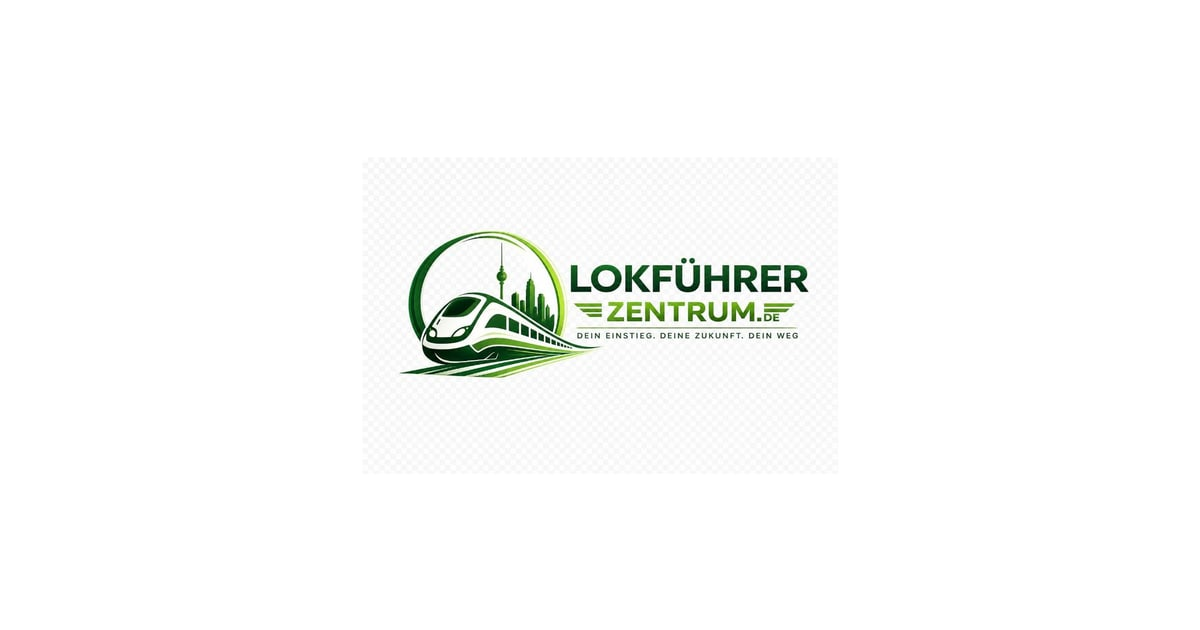
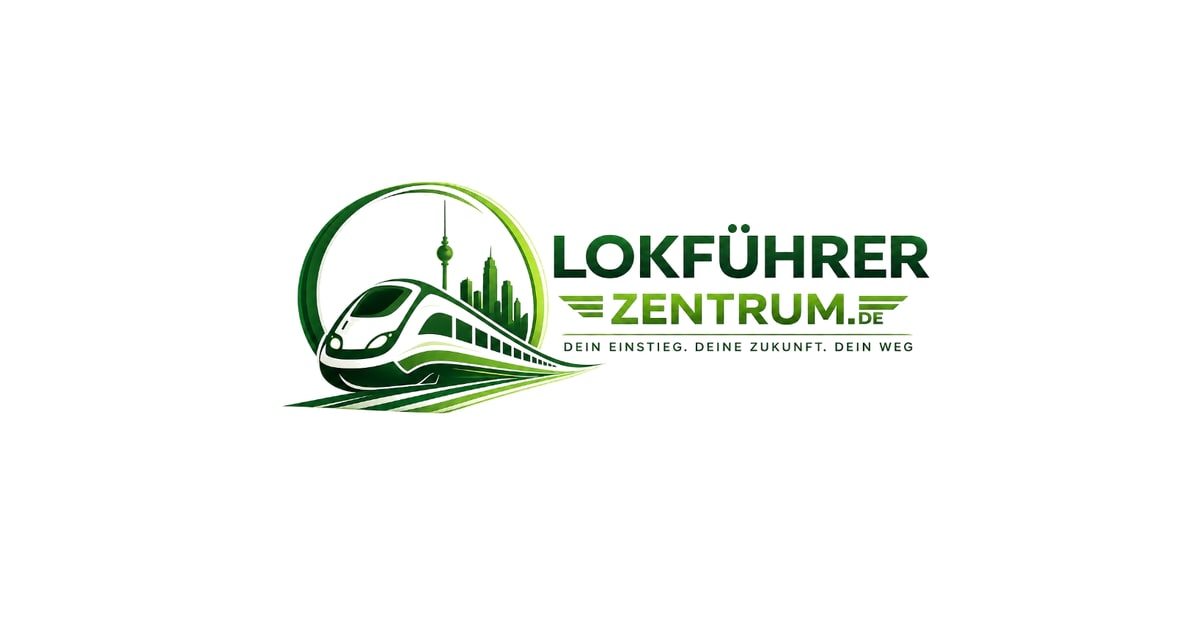
feat(email): High-End-Markenlayout fuer ausgehende E-Mails
renderEmailHtml() erzeugt jetzt ein tabellenbasiertes, Inline-CSS-Layout im
Lokführerzentrum-Stil: Logo-Header, gruen->navy Akzentleiste, gestylte
Absaetze, Standalone-Links als gruene CTA-Buttons (mit Fallback-Link), Navy-
Footer mit Kontakt, Slogan und DSGVO-Hinweis. Magic-Link-Mails nutzen dasselbe
Layout. Neues sauberes E-Mail-Logo (weisser Hintergrund, Karomuster entfernt);
OG-Bild ebenfalls bereinigt.

Changed region(s): [[0.2467, 0.2714, 0.7708, 0.6635]]

diff --git a/src/features/fairtrain-funnel/automation/TemplateRenderer.ts b/src/features/fairtrain-funnel/automation/TemplateRenderer.ts
@@ -134,15 +134,125 @@ export function renderTemplate(
   });
 }
 
-export function renderEmailHtml(body: string): string {
-  const escaped = body
+/* ------------------------------------------------------------------ *
+ * Branded HTML email layout (Lokführerzentrum)                        *
+ * ------------------------------------------------------------------ *
+ * Table-based + inline CSS for maximum client compatibility           *
+ * (Outlook, Gmail, Apple Mail, mobile). The template body arrives as  *
+ * plain text; we turn it into styled paragraphs and render standalone *
+ * links as branded call-to-action buttons.                            */
+
+const EMAIL_ORIGIN = "https://www.xn--lokfhrerzentrum-2vb.de";
+const EMAIL_LOGO_URL = `${EMAIL_ORIGIN}/brand/email-logo.jpg`;
+const EMAIL_BRAND = {
+  green: "#3F7248",
+  greenDark: "#35613D",
+  navy: "#0F1B3D",
+  pageBg: "#eceff5",
+  cardBg: "#ffffff",
+  border: "#e2e8f0",
+  text: "#1f2937",
+  soft: "#475569",
+  muted: "#94a3b8",
+} as const;
+const EMAIL_FONT =
+  "'Segoe UI', Roboto, Helvetica, Arial, -apple-system, BlinkMacSystemFont, sans-serif";
+
+function escapeHtml(input: string): string {
+  return input
     .replace(/&/g, "&amp;")
     .replace(/</g, "&lt;")
-    .replace(/>/g, "&gt;");
-  const paragraphs = escaped
+    .replace(/>/g, "&gt;")
+    .replace(/"/g, "&quot;");
+}
+
+const URL_RE = /https?:\/\/[^\s<]+/gi;
+
+/** Human label for a standalone CTA link, inferred from the URL. */
+function ctaLabel(url: string): string {
+  const u = url.toLowerCase();
+  if (u.includes("/bewerbung") || u.includes("upload") || u.includes("/m/"))
+    return "Unterlagen sicher hochladen";
+  if (u.includes("termin") || u.includes("book") || u.includes("cal"))
+    return "Termin auswählen";
+  if (u.includes("eignung")) return "Eignungscheck starten";
+  return "Jetzt öffnen";
+}
+
+function ctaButton(url: string): string {
+  const href = escapeHtml(url);
+  const label = ctaLabel(url);
+  return `<table role="presentation" cellpadding="0" cellspacing="0" border="0" style="margin:26px auto;"><tr><td align="center" bgcolor="${EMAIL_BRAND.green}" style="border-radius:12px;">
+<a href="${href}" target="_blank" style="display:inline-block;padding:16px 34px;font-family:${EMAIL_FONT};font-size:16px;font-weight:700;color:#ffffff;text-decoration:none;border-radius:12px;background:${EMAIL_BRAND.green};">${label} &rarr;</a>
+</td></tr></table>
+<p style="margin:0 0 18px;font-family:${EMAIL_FONT};font-size:12px;line-height:1.6;color:${EMAIL_BRAND.muted};text-align:center;word-break:break-all;">Falls der Button nicht funktioniert: <a href="${href}" target="_blank" style="color:${EMAIL_BRAND.green};">${href}</a></p>`;
+}
+
+/** Escape text and turn inline URLs into branded links. */
+function paragraphHtml(text: string): string {
+  const withBreaks = escapeHtml(text).replace(/\n/g, "<br />");
+  const linked = withBreaks.replace(
+    URL_RE,
+    (m) =>
+      `<a href="${m}" target="_blank" style="color:${EMAIL_BRAND.green};font-weight:600;text-decoration:underline;">${m}</a>`,
+  );
+  return `<p style="margin:0 0 18px;font-family:${EMAIL_FONT};font-size:16px;line-height:1.7;color:${EMAIL_BRAND.text};">${linked}</p>`;
+}
+
+/** Render the plain-text body into styled blocks (paragraphs + CTA buttons). */
+function renderEmailBody(body: string): string {
+  return body
     .split(/\n{2,}/)
-    .map((p) => p.replace(/\n/g, "<br />"))
-    .map((p) => `<p style="margin:0 0 1em;line-height:1.6">${p}</p>`)
+    .map((block) => block.trim())
+    .filter((block) => block.length > 0)
+    .map((block) =>
+      /^https?:\/\/\S+$/i.test(block) ? ctaButton(block) : paragraphHtml(block),
+    )
     .join("");
-  return `<!DOCTYPE html><html><body style="font-family:system-ui,sans-serif;color:#0f172a">${paragraphs}</body></html>`;
+}
+
+export function renderEmailHtml(
+  body: string,
+  opts: { preheader?: string } = {},
+): string {
+  const content = renderEmailBody(body);
+  const preheaderSource =
+    opts.preheader ??
+    body.split(/\n/).map((l) => l.trim()).find((l) => l.length > 0) ??
+    "Lokführerzentrum.de";
+  const preheader = escapeHtml(preheaderSource.slice(0, 140));
+
+  return `<!DOCTYPE html PUBLIC "-//W3C//DTD XHTML 1.0 Transitional//EN" "http://www.w3.org/TR/xhtml1/DTD/xhtml1-transitional.dtd">
+<html xmlns="http://www.w3.org/1999/xhtml" lang="de">
+<head>
+<meta charset="utf-8" />
+<meta name="viewport" content="width=device-width, initial-scale=1.0" />
+<meta http-equiv="X-UA-Compatible" content="IE=edge" />
+<meta name="color-scheme" content="light only" />
+<meta name="supported-color-schemes" content="light" />
+<title>Lokführerzentrum.de</title>
+</head>
+<body style="margin:0;padding:0;background:${EMAIL_BRAND.pageBg};-webkit-font-smoothing:antialiased;">
+<div style="display:none;max-height:0;overflow:hidden;opacity:0;font-size:1px;line-height:1px;color:${EMAIL_BRAND.pageBg};">${preheader}</div>
+<table role="presentation" width="100%" cellpadding="0" cellspacing="0" border="0" style="background:${EMAIL_BRAND.pageBg};">
+<tr><td align="center" style="padding:32px 16px;">
+<table role="presentation" width="600" cellpadding="0" cellspacing="0" border="0" style="width:600px;max-width:100%;background:${EMAIL_BRAND.cardBg};border:1px solid ${EMAIL_BRAND.border};border-radius:18px;overflow:hidden;box-shadow:0 10px 30px rgba(15,27,61,0.06);">
+<tr><td style="height:6px;background:linear-gradient(90deg,${EMAIL_BRAND.green},${EMAIL_BRAND.navy});font-size:0;line-height:0;">&nbsp;</td></tr>
+<tr><td align="center" style="padding:34px 40px 8px;">
+<img src="${EMAIL_LOGO_URL}" width="300" alt="Lokführerzentrum.de" style="display:block;width:300px;max-width:78%;height:auto;border:0;" />
+</td></tr>
+<tr><td style="padding:16px 44px 30px;">${content}</td></tr>
+<tr><td style="background:${EMAIL_BRAND.navy};padding:26px 40px;">
+<p style="margin:0 0 6px;font-family:${EMAIL_FONT};font-size:15px;font-weight:700;color:#ffffff;">Lokführerzentrum.de</p>
+<p style="margin:0 0 12px;font-family:${EMAIL_FONT};font-size:12px;letter-spacing:0.5px;color:#9fb0c9;text-transform:uppercase;">Dein Einstieg. Deine Zukunft. Dein Weg.</p>
+<p style="margin:0;font-family:${EMAIL_FONT};font-size:12px;line-height:1.7;color:#cbd5e1;">
+<a href="mailto:[email redacted]" style="color:#cbd5e1;text-decoration:none;">foerderung@lokführerzentrum.de</a>&nbsp;&bull;&nbsp;<a href="${EMAIL_ORIGIN}" target="_blank" style="color:#cbd5e1;text-decoration:none;">www.lokführerzentrum.de</a>
+</p>
+<p style="margin:12px 0 0;font-family:${EMAIL_FONT};font-size:11px;line-height:1.6;color:#6b7c98;">Diese E-Mail bezieht sich auf deine Anfrage zur geförderten Lokführer-Weiterbildung. Deine Daten werden ausschließlich hierfür und DSGVO-konform verarbeitet.</p>
+</td></tr>
+</table>
+</td></tr>
+</table>
+</body>
+</html>`;
 }

diff --git a/src/server/actions/sendMagicLink.ts b/src/server/actions/sendMagicLink.ts
@@ -1,5 +1,6 @@
 "use server";
 import { SendMagicLinkSchema } from "@/features/fairtrain-funnel/forms/schemas";
+import { renderEmailHtml } from "@/features/fairtrain-funnel/automation/TemplateRenderer";
 import {
   CommunicationChannel,
   MagicLinkScopeSchema,
@@ -42,11 +43,12 @@ export async function sendMagicLink(
         message,
       });
     } else {
+      const emailBody = `Hallo ${lead.firstName},\n\nbitte vervollständige deine Angaben für deine geförderte Lokführer-Weiterbildung über den folgenden sicheren Link:\n\n${url}`;
       await communicationService.sendEmail({
         leadId: lead.id,
         to: lead.email,
-        subject: "Deine Lokführer-Weiterbildung - nächster Schritt",
-        html: `<p>${message}</p>`,
+        subject: "Deine Lokführer-Weiterbildung – nächster Schritt",
+        html: renderEmailHtml(emailBody),
       });
     }
 